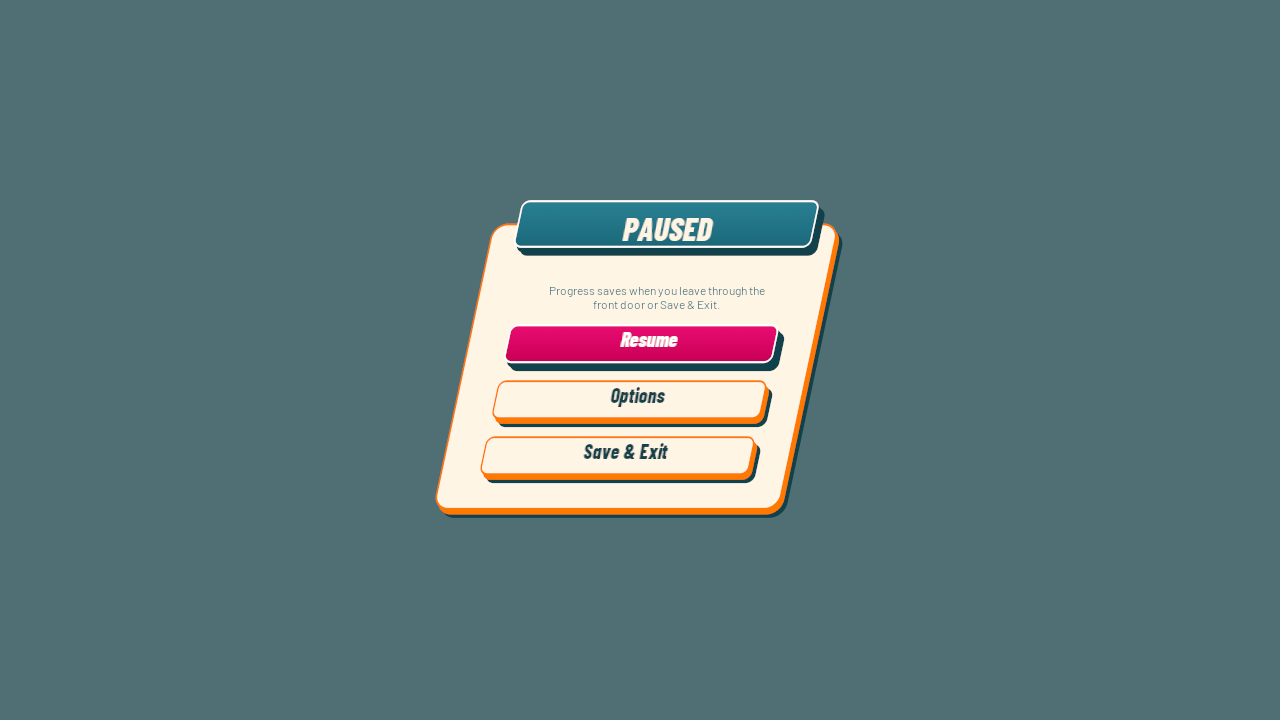
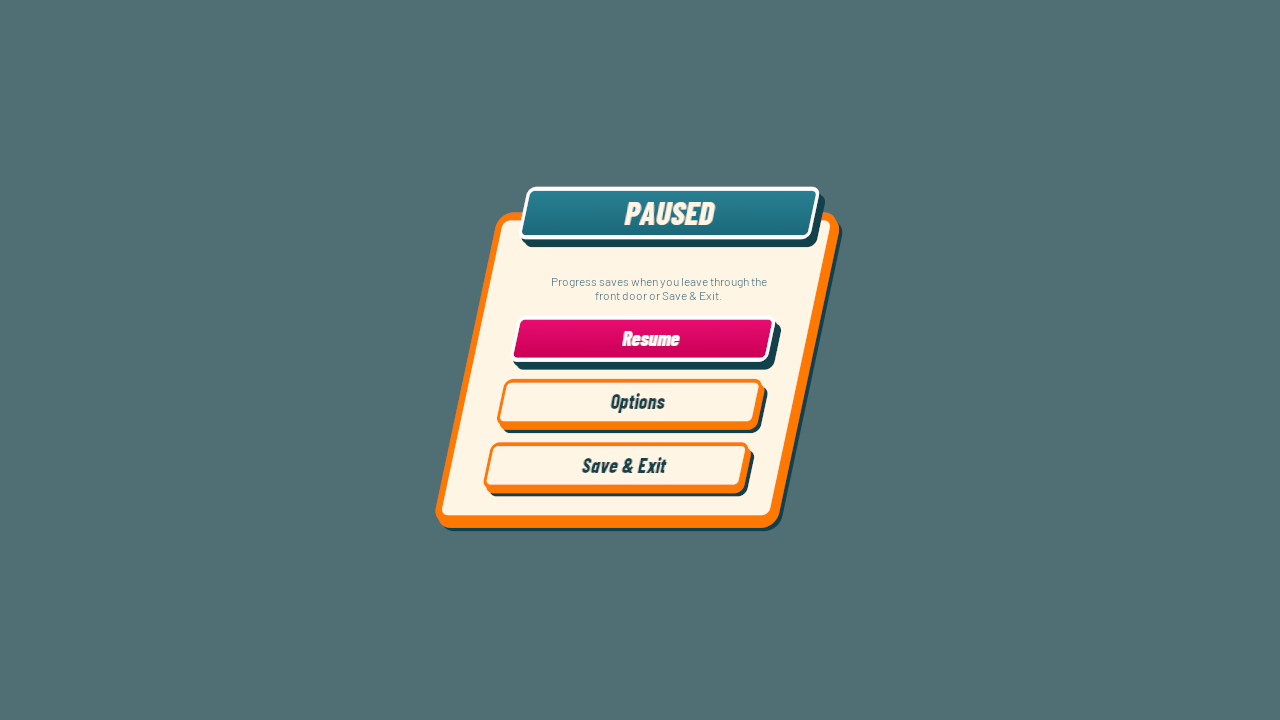
Thicker keylines, roomier buttons, true vertical centring; trim title screen
Buttons and plates get a 6-unit keyline and popups 12 (extrusion unchanged).
Buttons gain 8 units of vertical padding. Text plates use bottom = top +
extrusion padding, and button content fills its slot because Slate's centred
alignment ignores asymmetric padding (labels sat ~7px high). Labels lift
0.05em so capitals centre on the face. Removes the title tagline and footer,
fixes a wrapping title label, and sizes the logo so 135% text fits.

Changed region(s): [[0.3438, 0.2444, 0.6562, 0.7639]]

diff --git a/Source/ICanFixHim/UI/FixHimUI.cpp b/Source/ICanFixHim/UI/FixHimUI.cpp
@@ -89,7 +89,7 @@ FButtonStyle ButtonStyle(const FLinearColor &Normal, const FLinearColor &Hovered
 	Style.SetDisabled(Rounded(FixHimDesign::Disabled, Radius, FixHimDesign::DisabledInk, 2));
 	Style.SetDisabledForeground(FSlateColor(FixHimDesign::DisabledInk));
 	Style.SetNormalPadding(FMargin(0));
-	Style.SetPressedPadding(FMargin(2, 3, -2, -3));
+	Style.SetPressedPadding(FMargin(3, 4, -3, -4)); // follows the face's press offset
 	return Style;
 }
 
@@ -176,14 +176,21 @@ UFixHimButton *UFixHimButton::Make(UWidgetTree *Tree, const FString &LabelText, 
 		Icon->Brush.TintColor = FSlateColor::UseForeground();
 		Box->AddChild(Icon);
 		Row->AddChildToHorizontalBox(Box)->SetVerticalAlignment(VAlign_Center);
-		Row->AddChildToHorizontalBox(B->Label)->SetPadding(FMargin(16, 0, 0, 0));
+		// Fill, not auto: a wrapping label in an auto slot can settle on a too-narrow wrap width.
+		UHorizontalBoxSlot *LabelSlot = Row->AddChildToHorizontalBox(B->Label);
+		LabelSlot->SetPadding(FMargin(16, 0, 0, 0));
+		LabelSlot->SetSize(FSlateChildSize(ESlateSizeRule::Fill));
+		LabelSlot->SetVerticalAlignment(VAlign_Center);
 		B->Label->SetJustification(ETextJustify::Left);
 		Content = Row;
 	}
 	if (auto *Slot = Cast<UButtonSlot>(B->AddChild(Content)))
 	{
-		Slot->SetPadding(FMargin(52, 8, 38, 24));
+		Slot->SetPadding(FMargin(52, 16, 38, 16 + FixHimDesign::Extrusion));
 		Slot->SetHorizontalAlignment(HAlign_Fill);
+		// Fill, not centre: Slate's centred alignment offsets by (top - bottom) padding, which pulls content up
+		// by half the extrusion allowance. Filling the padded box keeps the label centred on the face.
+		Slot->SetVerticalAlignment(VAlign_Fill);
 	}
 	B->SetVariant(bPrimary);
 	B->Init(MoveTemp(InOnClick));
@@ -439,7 +446,8 @@ UWidget *UFixHimWidget::MakeHeaderedSurface(UBorder *Surface, const FString &Tit
 	Heading->SetJustification(ETextJustify::Center);
 	auto *Header = WidgetTree->ConstructWidget<UFixHimSurface>();
 	Header->SetBrush(Rounded(FixHimDesign::Teal, 12));
-	Header->SetPadding(FMargin(32, 12, 40, 16));
+	Header->SetPadding(FMargin(32, 10, 40, 10 + FixHimDesign::Extrusion));
+	Heading->SetRenderTranslation(FVector2D(0, Heading->GetFont().Size * FixHimDesign::CapCentre));
 	Header->SetContent(Heading);
 	return MakeHeaderedSurface(Surface, Header, Padding);
 }
@@ -522,8 +530,9 @@ UVerticalBox *UFixHimWidget::MakeCardScreen(const FString &Title, float Width)
 	SizeSlot->SetHorizontalAlignment(HAlign_Center);
 	SizeSlot->SetVerticalAlignment(VAlign_Center);
 
-	UBorder *Card = WidgetTree->ConstructWidget<UFixHimSurface>();
+	UFixHimSurface *Card = WidgetTree->ConstructWidget<UFixHimSurface>();
 	Card->SetBrush(Rounded(Cream, 28.f, Pink, 4.f));
+	Card->BorderWidth = FixHimDesign::PopupBorder;
 	CardSurface = Card;
 	Size->AddChild(MakeHeaderedSurface(Card, Title, FMargin(32, 32, 40, 40)));
 	Size->SetRenderTransformPivot(FVector2D(.5f, .5f));
@@ -612,7 +621,7 @@ void UFixHimButton::SetVariant(EFixHimButtonVariant InVariant)
 		FWidgetTransform Transform;
 		Transform.Shear = Display ? FVector2D(-FMath::RadiansToDegrees(FMath::Atan(FixHimDesign::DisplayShear)), 0)
 		                          : FVector2D::ZeroVector;
-		Transform.Translation.Y = Label->GetFont().Size * .1f;
+		Transform.Translation.Y = Label->GetFont().Size * FixHimDesign::CapCentre;
 		Label->SetRenderTransform(Transform);
 	}
 	if (MyButton)

diff --git a/Source/ICanFixHim/UI/FixHimDialogueWidget.cpp b/Source/ICanFixHim/UI/FixHimDialogueWidget.cpp
@@ -61,8 +61,9 @@ void UFixHimDialogueWidget::BuildUI()
 	PanelSlot->SetVerticalAlignment(VAlign_Bottom);
 	PanelSlot->SetPadding(FMargin(40.f, 0.f, 40.f, 22.f));
 
-	UBorder *Panel = WidgetTree->ConstructWidget<UFixHimSurface>();
+	UFixHimSurface *Panel = WidgetTree->ConstructWidget<UFixHimSurface>();
 	Panel->SetBrush(Rounded(Cream, 26.f, Pink, 4.f));
+	Panel->BorderWidth = FixHimDesign::PopupBorder;
 	Panel->SetVisibility(ESlateVisibility::Visible);
 	PanelSize->SetMaxDesiredHeight(760.f);
 
@@ -77,8 +78,9 @@ void UFixHimDialogueWidget::BuildUI()
 	UVerticalBox *NameStack = WidgetTree->ConstructWidget<UVerticalBox>();
 	NamePill = WidgetTree->ConstructWidget<UFixHimSurface>();
 	NamePill->SetBrush(Rounded(HotPink, 16.f));
-	NamePill->SetPadding(FMargin(NamePadL, 2, NamePadR, 20));
+	NamePill->SetPadding(FMargin(NamePadL, 3, NamePadR, 3 + FixHimDesign::Extrusion));
 	NameText = MakeText(WidgetTree, TEXT("NAME"), 66, FLinearColor::White, TEXT("Display"));
+	NameText->SetRenderTranslation(FVector2D(0, NameText->GetFont().Size * FixHimDesign::CapCentre));
 	NamePill->SetContent(NameText);
 	NameStack->AddChildToVerticalBox(NamePill)->SetHorizontalAlignment(HAlign_Left);
 	NameStackBox = NameStack;
@@ -486,17 +488,18 @@ void UFixHimDialogueWidget::BuildChoices()
 		UFixHimButton *B = WidgetTree->ConstructWidget<UFixHimButton>();
 		B->SetVariant(EFixHimButtonVariant::Reply);
 		FButtonStyle Style = ButtonStyle(Cream, Pink, Pink, 12, Gold);
-		Style.SetNormalPadding(FMargin(52, 9, 32, 21));
-		Style.SetPressedPadding(FMargin(54, 12, 30, 18));
+		Style.SetNormalPadding(FMargin(52, 17, 32, 17 + FixHimDesign::Extrusion));
+		Style.SetPressedPadding(FMargin(55, 21, 29, 13 + FixHimDesign::Extrusion));
 		B->SetStyle(Style);
 		B->Label = MakeText(WidgetTree, Label, FixHimDesign::Reply, Plum, TEXT("Display"));
 		B->Label->SetAutoWrapText(true);
-		B->Label->SetRenderTranslation(FVector2D(0, B->Label->GetFont().Size * .08f));
+		B->Label->SetRenderTranslation(FVector2D(0, B->Label->GetFont().Size * FixHimDesign::CapCentre));
 		B->Label->SetColorAndOpacity(FSlateColor::UseForeground());
 		B->Label->SetJustification(ETextJustify::Left);
 		if (UButtonSlot *LabelSlot = Cast<UButtonSlot>(B->AddChild(B->Label)))
 		{
 			LabelSlot->SetHorizontalAlignment(HAlign_Fill);
+			LabelSlot->SetVerticalAlignment(VAlign_Fill); // see UFixHimButton::Make: centred slots ignore asymmetric padding
 			LabelSlot->SetPadding(FMargin(4.f, 0.f));
 		}
 		B->ClickSfx = TEXT("ChoiceSelect");
@@ -562,7 +565,7 @@ void UFixHimDialogueWidget::SpawnFloater(const FString &Text, const FLinearColor
 {
 	UBorder *Pill = WidgetTree->ConstructWidget<UFixHimSurface>();
 	Pill->SetBrush(Rounded(Color, 20.f));
-	Pill->SetPadding(FMargin(20.f, 7.f));
+	Pill->SetPadding(FMargin(20.f, 7.f, 20.f, 7.f + FixHimDesign::Extrusion));
 	Pill->SetContent(MakeText(WidgetTree, Text, 30, FLinearColor::White, TEXT("Bold")));
 	FloaterBox->AddChildToVerticalBox(Pill)->SetPadding(FMargin(0.f, 4.f));
 	FFloater F;

diff --git a/Source/ICanFixHim/UI/FixHimDesign.cpp b/Source/ICanFixHim/UI/FixHimDesign.cpp
@@ -76,7 +76,7 @@ void Shape(FSlateWindowElementList &Out, int32 Layer, const FGeometry &G, FVecto
 	FSlateDrawElement::MakeCustomVerts(Out, Layer, Resource, V, Indices, nullptr, 0, 0);
 }
 void Surface(FSlateWindowElementList &Out, int32 Layer, const FGeometry &G, FLinearColor Fill, FLinearColor Tint,
-             bool Slanted, bool Focused, bool Pressed, bool Enabled)
+             bool Slanted, bool Focused, bool Pressed, bool Enabled, float Keyline)
 {
 	using namespace FixHimDesign;
 	const FVector2f Size(G.GetLocalSize());
@@ -101,8 +101,10 @@ void Surface(FSlateWindowElementList &Out, int32 Layer, const FGeometry &G, FLin
 	Shape(Out, Layer + 1, G, FVector2f(4, 7), FaceSize, R, Slanted, Depth, Depth, Tint);
 	Shape(Out, Layer + 2, G, Offset, FaceSize, R, Slanted, Focused ? FLinearColor::White : Edge,
 	      Focused ? FLinearColor::White : Edge, Tint);
-	Shape(Out, Layer + 3, G, Offset + FVector2f(Focused ? 5 : 3, Focused ? 5 : 3),
-	      FaceSize - FVector2f(Focused ? 10 : 6, Focused ? 10 : 6), R - 3, Slanted, Top, Bottom, Tint);
+	// Keyline only: the face is inset by the border width; the extrusion and shadow keep their size.
+	const float K = Focused ? Keyline + 2.f : Keyline;
+	Shape(Out, Layer + 3, G, Offset + FVector2f(K, K), FaceSize - FVector2f(2 * K, 2 * K), FMath::Max(2.f, R - K),
+	      Slanted, Top, Bottom, Tint);
 	if (Focused)
 	{
 		// Filled upright pointer follows the slanted left edge and the face's optical centre.
@@ -133,7 +135,8 @@ class SDesignBorder : public SBorder
 			Shape(Out, L, G, FVector2f(0, 0), FVector2f(G.GetLocalSize()), 22, true, Fill, Fill,
 			      S.GetColorAndOpacityTint());
 		else
-			Surface(Out, L, G, Fill, S.GetColorAndOpacityTint(), true, false, false, ShouldBeEnabled(E));
+			Surface(Out, L, G, Fill, S.GetColorAndOpacityTint(), true, false, false, ShouldBeEnabled(E),
+			        Owner.IsValid() ? Owner->BorderWidth : FixHimDesign::ButtonBorder);
 		return SCompoundWidget::OnPaint(A, G, C, Out, L + 5, S, E);
 	}
 };
@@ -162,7 +165,8 @@ class SDesignButton : public SButton
 		const FLinearColor Fill = !Enabled                    ? Disabled
 		                          : Owner->bPrimary || Active ? FixHimDesign::Pink
 		                                                      : FixHimDesign::Cream;
-		Surface(Out, L, G, Fill, S.GetColorAndOpacityTint(), true, Focused, Pressed, Enabled);
+		Surface(Out, L, G, Fill, S.GetColorAndOpacityTint(), true, Focused, Pressed, Enabled,
+		        FixHimDesign::ButtonBorder);
 		FWidgetStyle ChildStyle = S;
 		ChildStyle.SetForegroundColor(!Enabled ? DisabledInk : Owner->bPrimary || Active ? FLinearColor::White : Ink);
 		// Preserve the specified disabled ink rather than applying Slate's additional gray-out shader.

diff --git a/Source/ICanFixHim/UI/FixHimHUDWidget.cpp b/Source/ICanFixHim/UI/FixHimHUDWidget.cpp
@@ -78,7 +78,7 @@ void UFixHimHUDWidget::BuildUI()
 
 	PromptPill = WidgetTree->ConstructWidget<UFixHimSurface>();
 	PromptPill->SetBrush(Rounded(Plum, 14.f));
-	PromptPill->SetPadding(FMargin(28,6,36,20));
+	PromptPill->SetPadding(FMargin(28, 6, 36, 6 + FixHimDesign::Extrusion));
 	PromptText = MakeText(WidgetTree, TEXT(""), 18, Cream, TEXT("Bold"));
 	PromptPill->SetContent(PromptText);
 	PromptPill->SetVisibility(ESlateVisibility::Collapsed);
@@ -91,7 +91,7 @@ void UFixHimHUDWidget::BuildUI()
 	// ---- Room name (top left) ----
 	RoomPill = WidgetTree->ConstructWidget<UFixHimSurface>();
 	RoomPill->SetBrush(Rounded(FixHimDesign::Teal, 18.f));
-	RoomPill->SetPadding(FMargin(32,8,40,22));
+	RoomPill->SetPadding(FMargin(32, 8, 40, 8 + FixHimDesign::Extrusion));
 	RoomText = MakeText(WidgetTree, TEXT(""), 26, Cream, TEXT("Display"));
 	RoomPill->SetContent(RoomText);
 	UOverlaySlot* RoomSlot = Root->AddChildToOverlay(RoomPill);
@@ -103,7 +103,7 @@ void UFixHimHUDWidget::BuildUI()
 	// ---- Repairs (top right) ----
 	UBorder* RepPill = WidgetTree->ConstructWidget<UFixHimSurface>();
 	RepPill->SetBrush(Rounded(FixHimDesign::Teal, 18.f));
-	RepPill->SetPadding(FMargin(32,8,40,22));
+	RepPill->SetPadding(FMargin(32, 8, 40, 8 + FixHimDesign::Extrusion));
 	RepairsText = MakeText(WidgetTree, TEXT("Repairs 0/0"), 18, Cream, TEXT("Bold"));
 	RepPill->SetContent(RepairsText);
 	UOverlaySlot* RepSlot = Root->AddChildToOverlay(RepPill);
@@ -124,7 +124,7 @@ void UFixHimHUDWidget::BuildUI()
 	// ---- Toast (top centre) ----
 	ToastPill = WidgetTree->ConstructWidget<UFixHimSurface>();
 	ToastPill->SetBrush(Rounded(Pink, 16.f));
-	ToastPill->SetPadding(FMargin(32,8,40,22));
+	ToastPill->SetPadding(FMargin(32, 8, 40, 8 + FixHimDesign::Extrusion));
 	ToastText = MakeText(WidgetTree, TEXT(""), 18, FLinearColor::White, TEXT("Bold"));
 	ToastPill->SetContent(ToastText);
 	UOverlaySlot* ToastSlot = Root->AddChildToOverlay(ToastPill);

diff --git a/Source/ICanFixHim/UI/FixHimMenus.cpp b/Source/ICanFixHim/UI/FixHimMenus.cpp
@@ -51,14 +51,13 @@ void UFixHimTitleWidget::BuildUI()
 	Col->AddChildToVerticalBox(TitleCol);
 
 	USizeBox *LogoBox = WidgetTree->ConstructWidget<USizeBox>();
-	LogoBox->SetWidthOverride(480);
-	LogoBox->SetHeightOverride(384);
+	// Sized so the 135% text menu (taller padded buttons) still fits with its footer.
+	LogoBox->SetWidthOverride(420);
+	LogoBox->SetHeightOverride(336);
 	UImage *Logo = WidgetTree->ConstructWidget<UImage>();
 	Logo->SetBrushFromTexture(LoadObject<UTexture2D>(nullptr, TEXT("/Game/ICanFixHim/UI/Design/Brand/T_Logo.T_Logo")));
 	LogoBox->AddChild(Logo);
 	TitleCol->AddChildToVerticalBox(LogoBox);
-	UTextBlock *Tag = MakeText(WidgetTree, TEXT("a home renovation romance"), 22, Cream);
-	TitleCol->AddChildToVerticalBox(Tag)->SetPadding(FMargin(0, 12, 0, 0));
 
 	UVerticalBoxSlot *SpacerSlot = Col->AddChildToVerticalBox(WidgetTree->ConstructWidget<USpacer>());
 	SpacerSlot->SetSize(FSlateChildSize(ESlateSizeRule::Fill));
@@ -75,7 +74,7 @@ void UFixHimTitleWidget::BuildUI()
 		                                       : Label == TEXT("Credits")  ? TEXT("info")
 		                                                                   : TEXT("door_open"));
 		Box->AddChild(B);
-		Col->AddChildToVerticalBox(Box)->SetPadding(FMargin(0.f, 0.f, 0.f, 14.f));
+		Col->AddChildToVerticalBox(Box)->SetPadding(FMargin(0.f, 0.f, 0.f, 10.f));
 		return B;
 	};
 
@@ -137,8 +136,6 @@ void UFixHimTitleWidget::BuildUI()
 	    },
 	    false);
 
-	UTextBlock *Footer = MakeText(WidgetTree, TEXT("AI Game Jam 2026"), 16, Cream.CopyWithNewOpacity(.85f));
-	Col->AddChildToVerticalBox(Footer)->SetPadding(FMargin(0.f, 24.f, 0.f, 0.f));
 
 	RefreshContinue();
 }

diff --git a/Source/ICanFixHim/UI/FixHimDesign.h b/Source/ICanFixHim/UI/FixHimDesign.h
@@ -21,6 +21,14 @@ inline const FLinearColor DisabledInk = FLinearColor::FromSRGBColor(FColor::From
 inline const FLinearColor Scrim = Ink.CopyWithNewOpacity(.72f);
 inline constexpr float Slant = 0.2125565617f;        // tan(12 degrees)
 inline constexpr float DisplayShear = 0.0897720008f; // tan(12) - tan(7)
+/** Keyline (outline) widths. Buttons and plates use ButtonBorder; popup cards and panels use twice that. */
+inline constexpr float ButtonBorder = 6.f, PopupBorder = 12.f;
+/**
+ * Vertical centring on slanted surfaces. The face excludes a 15-unit extrusion at the bottom, so text is centred
+ * when bottom padding = top padding + Extrusion. Barlow's line box (ascender 1.0 em, descender 0.2 em) puts the
+ * capitals' centre 0.05 em below the box centre; CapCentre lifts labels by that much.
+ */
+inline constexpr float Extrusion = 15.f, CapCentre = -.05f;
 inline constexpr float HitHeight = 48.f;
 inline constexpr int32 Caption = 16, Body = 22, Line = 28, Reply = 28, Label = 24, Heading = 36, Hero = 72;
 ICANFIXHIM_API bool ReducedMotion();
@@ -35,6 +43,8 @@ class ICANFIXHIM_API UFixHimSurface : public UBorder
 	GENERATED_BODY()
   public:
 	bool bBorderless = false;
+	/** Keyline width; raise to FixHimDesign::PopupBorder for popup cards and panels. */
+	float BorderWidth = FixHimDesign::ButtonBorder;
   protected:
 	virtual TSharedRef<SWidget> RebuildWidget() override;
 };

diff --git a/Source/ICanFixHim/UI/FixHimFloorPlanWidget.cpp b/Source/ICanFixHim/UI/FixHimFloorPlanWidget.cpp
@@ -34,6 +34,7 @@ void UFixHimFloorPlanWidget::BuildUI()
 
 	Sheet = WidgetTree->ConstructWidget<UFixHimSurface>();
 	Sheet->SetBrush(Rounded(Blueprint, 18.f, FLinearColor(0.75f, 0.85f, 1.f, 0.9f), 3.f));
+	Cast<UFixHimSurface>(Sheet)->BorderWidth = FixHimDesign::PopupBorder;
 	SheetFrame = MakeHeaderedSurface(Sheet, TEXT("Floor plan  -  12 Heartbreak Lane"), FMargin(32, 28, 48, 36));
 	UOverlaySlot *SheetSlot = Root->AddChildToOverlay(SheetFrame);
 	SheetSlot->SetHorizontalAlignment(HAlign_Center);
@@ -207,7 +208,7 @@ void UFixHimFloorPlanWidget::Refresh()
 			// Full words overhang the narrow footprint; geometry and travel destinations stay truthful.
 			auto *Tag = WidgetTree->ConstructWidget<UFixHimSurface>();
 			Tag->SetBrush(Rounded(bHere ? Pink : Cream, 12));
-			Tag->SetPadding(FMargin(24, 10, 30, 24));
+			Tag->SetPadding(FMargin(24, 10, 30, 10 + FixHimDesign::Extrusion));
 			Name->SetAutoWrapText(false);
 			Name->SetColorAndOpacity(FSlateColor(bHere ? FLinearColor::White : Plum));
 			auto *Labels = WidgetTree->ConstructWidget<UVerticalBox>();

diff --git a/Source/ICanFixHim/UI/FixHimCards.cpp b/Source/ICanFixHim/UI/FixHimCards.cpp
@@ -96,7 +96,7 @@ void UFixHimIntroCardWidget::BuildUI()
 	// "Click to continue" pill near the bottom, fading in once the card has landed.
 	UBorder* HintPill = WidgetTree->ConstructWidget<UFixHimSurface>();
 	HintPill->SetBrush(Rounded(Cream, 18.f));
-	HintPill->SetPadding(FMargin(28.f, 8.f, 36.f, 24.f));
+	HintPill->SetPadding(FMargin(28.f, 8.f, 36.f, 8.f + FixHimDesign::Extrusion));
 	Hint = MakeText(WidgetTree, TEXT("Continue  /  Enter"), 22, Plum, TEXT("Display"));
 	HintPill->SetContent(Hint);
 	HintPill->SetVisibility(ESlateVisibility::HitTestInvisible);

diff --git a/docs/03 Art & Audio/UI Design System.md b/docs/03 Art & Audio/UI Design System.md
@@ -64,6 +64,9 @@ The selected treatment restores **rounded corners, thicker asymmetric borders an
 - Every element that uses a slant uses the same **12° right lean**: button silhouettes, panels, tabs, header plates, badges, outlines, focus contours and shadows.
 - The **placement grid also uses 12°**. Control origins, text-block anchors and icon anchors align along shared angled columns; rows and text baselines remain horizontal.
 - Rounded cream panel bodies pair with teal headers, orange borders heavier on the lower/right sides, and short ink offset shadows.
+- **Keylines:** buttons and plates use a 6-unit keyline; popup cards and panels use 12. Extrusion and shadow are unchanged by keyline width.
+- **Text is vertically centred on the face** of every button, header and plate: bottom padding = top padding + the 15-unit extrusion, and labels lift by 0.05 em so capitals (not the font's line box) sit on the centre. Buttons carry 16 units of vertical padding.
+- The title screen shows only the logo and menu: no tagline or event footer.
 - **Popup and sheet headers** are teal plates straddling the surface's top edge: the plate face is centred vertically on that edge and inset equally from both slanted sides.
 - Dialogue shows **no character portrait**; the character is present in the scene.
 - The **dialogue header** straddles the panel's top edge: a pink name plate (name only, 66-unit display face) and a teal strip tucked behind it holding the three meters. Each meter is a thick bar in its stat color with a round stat-colored icon badge overlaid on its left end; no text labels or dividers. The meters start at a fixed position that clears the widest name any speaker can have in the playthrough (hunks, extra speakers, the player's name) by at least 36 units, so they never shift between speakers. Replies are unnumbered; number keys still choose by position. Narration has no header. Spoken lines and replies share one size.

diff --git a/docs/04 Tech/UI Component Library.md b/docs/04 Tech/UI Component Library.md
@@ -63,6 +63,8 @@ Shared components are used by title/name entry, pause/options/credits, end-day c
 
 Dialogue retains its typewriter, clickable topic callbacks and authored choices. The header row (name plate and a teal meter strip whose bars carry Phosphor heart/users/lightning icon badges) straddles the panel via `MakeHeaderedSurface`; narration and generic script scenes hide the relationship group. Four replies stack and wrap. Dialogue has no portrait. Character introductions use visible painted portraits where available.
 
+Keyline width comes from `FixHimDesign::ButtonBorder` (6) and `PopupBorder` (12); set `UFixHimSurface::BorderWidth` for large containers. To centre text on a surface, use `bottom = top + FixHimDesign::Extrusion` padding and fill (not centre) alignment for button content: Slate's centred slot alignment ignores asymmetric padding and would lift labels by half the extrusion. `FixHimDesign::CapCentre` (-0.05 em) centres capitals rather than the line box.
+
 `UFixHimWidget::MakeHeaderedSurface` wraps any slanted surface with a teal title plate straddling its top edge. `MakeCardScreen` and the floor plan use it; the plate position is re-fitted each tick from measured sizes, so text scaling and content changes stay aligned.
 
 The selected v4 logo is imported once for the title screen. Its raster edge speckling and a final editable brand master still need a dedicated finishing pass; it has not been silently replaced by a different logo. Construction stripes and routine ray flourishes remain excluded.
